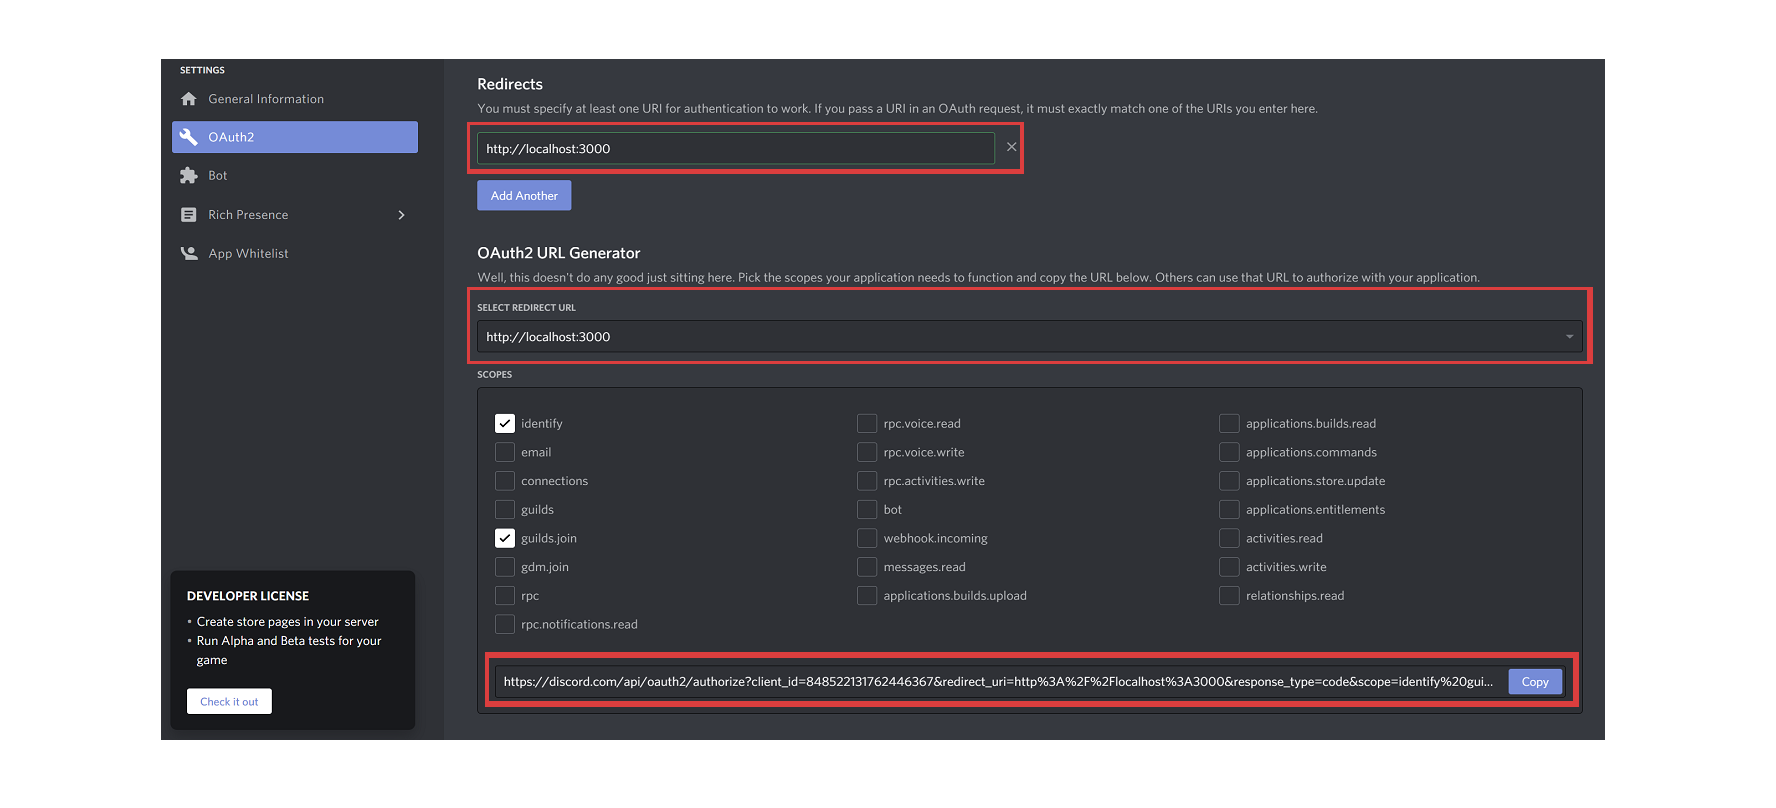
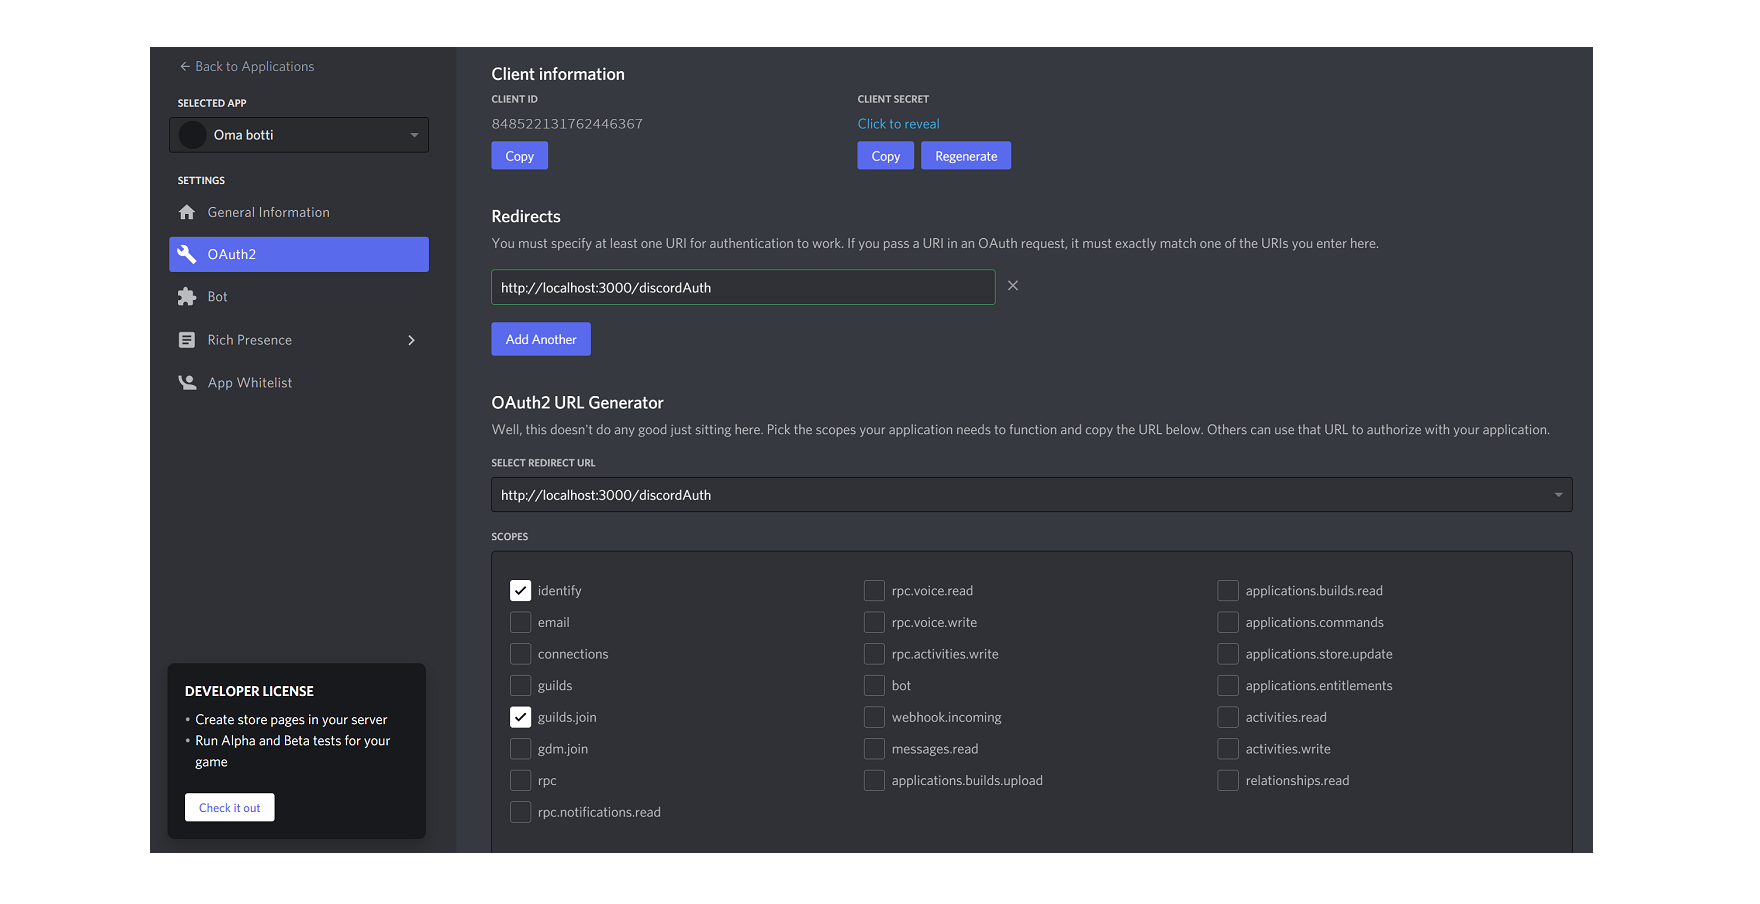
Add changes to backend manual

Changed region(s): [[0.0625, 0.0309, 0.9062, 0.9592], [0.5, 0.6498, 0.5938, 0.7426], [0.5, 0.5569, 0.5625, 0.6188]]

diff --git a/documentation/OAuth2.md b/documentation/OAuth2.md
@@ -14,22 +14,24 @@ Copy client secret from developer portal OAtuth section and set to .env `CLIENT_
 
 ![Application button](./images/backend.png)
 
-### Redirects
-
-Set redirect to <backend_server_url>/discordAuth.
-
 ### Scopes
 
 Select correct redirect url from drop down menu. From the scopes select **indentify** and **guild.join**.
-Copy scopes url and set to .env `DISCORD_REDIRECT_URL`.
 
-From Discord add your default discord server invite to .env `DISCORD_SERVER_INVITE`.
+### Redirects
 
-### Session secret
-
-Something here
+Set redirect to **<backend_server_url>/discordAuth** to `DISCORD_REDIRECT_URL`, e.g. if you are using local server use **http://localhost:3000/discordAuth**
 
 ### Backend server url
 
-Add default discord server invite to env DISCORD_SERVER_INVITE.
-Add session secret to env SESSION_SECRET and BACKEND_SERVER_URL to env
+From Discord add your default discord server invite to .env `DISCORD_SERVER_INVITE`. This can be found from the _#guide_ channel.
+
+Add your backend server url to `BACKEND_SERVER_URL`, e.g. if you are using local server use **http://localhost**.
+
+Add your local port to `PORT`, e.g. 3000.
+
+### Session secret
+
+Give `SESSION_SECRET` any value you want to use.
+
+
